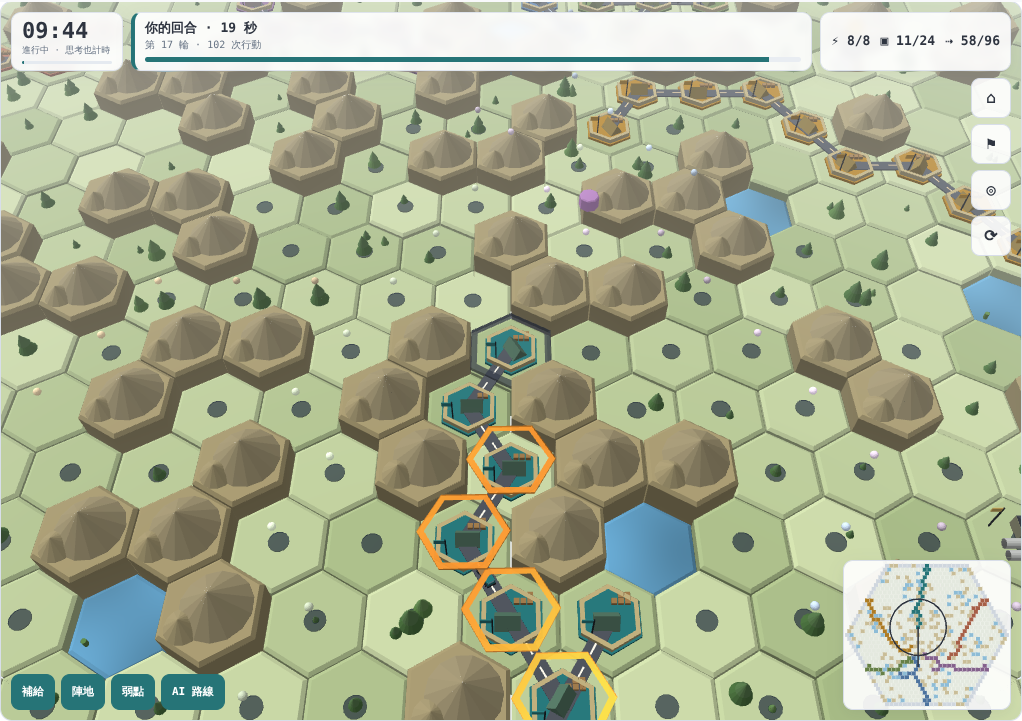
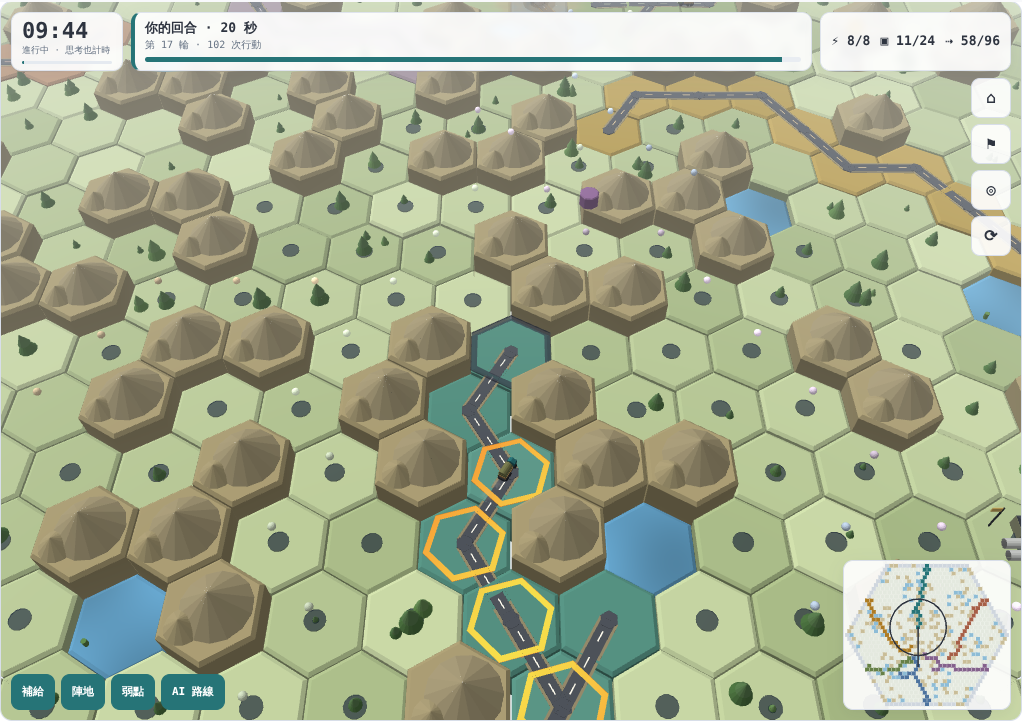
Record AutoHex-3D playtest for the particle battlefield
Full suite 465/465; Chromium playtests and a full ten-minute campaign
replay identically in the Node engine.

Claude-Session: https://claude.ai/code/session_01Uhr3zAC9qvkZDkg1xvcqao

diff --git a/docs/autohex-3d-2026-11-02/validation.md b/docs/autohex-3d-2026-11-02/validation.md
@@ -23,22 +23,22 @@ git diff --check
 
 ## 瀏覽器試玩（Chromium 153，SwiftShader WebGL2）
 
-下表為戰場造型更新後重跑的結果。十分鐘戰役由真實時間推進，AI 步速與計時的交錯不同，因此與前一輪手數不同；兩輪都要求重放一致。
+下表為第二版戰場造型（地塊變色、粒子爆炸、轟炸機與卡車）後重跑的結果。十分鐘戰役由真實時間推進，AI 步速與計時的交錯不同，因此與前一輪手數不同；兩輪都要求重放一致。
 
 詳見 [browser-report.json](browser-report.json)。每一例都把頁面的完整行動紀錄（人類、AI、佇列、逾時）在 Node 的 AutoHex 引擎重放，棋盤、存糧與分數完全一致。
 
 | 情境 | 結果 |
 | --- | --- |
 | 桌機 1440 親自指揮 | 以真實滑鼠點 3D 畫面下令 30 次：鋪子 23、拆除敵方補給弱點 4、為己方弱點架盾 3；AI 行動中預約 2 個指令並自動執行；指揮時限逾時自動休整 1 次；暫停凍結計時；195 手，重放一致，無錯誤、無橫向溢出 |
-| 桌機 1280 觀戰 | 六 AI 306 手，重放一致 |
+| 桌機 1280 觀戰 | 六 AI 303 手，重放一致 |
 | 手機 390／320 | 觸控點格下令各 4 次，重放一致，無橫向溢出 |
-| 完整十分鐘戰役（觀戰） | 1,835 手至結算畫面：C 紫藤 96、B 珊瑚 85、D 藍灰 80、E 草綠 75、A 青綠 70、F 琥珀 38。攻占 251、擊毀 129、斷補撤退 549、接通對岸 6、用牌 81、炮擊 114、空投 6、轟炸 5、重洗 1。重放一致 |
+| 完整十分鐘戰役（觀戰） | 1,823 手至結算畫面：C 紫藤 96、B 珊瑚 85、D 藍灰 80、E 草綠 74、A 青綠 70、F 琥珀 38。攻占 251、擊毀 128、斷補撤退 544、接通對岸 6、用牌 80、炮擊 113、空投 6、轟炸 5、重洗 1。重放一致 |
 
 畫面：[開局](desktop-ready.png) · [中局（陣地＋AI 路線）](desktop-midgame.png) · [指揮列](desktop-command.png) · [觀戰總覽](spectator-overview.png) · [十分鐘結算](full-campaign-result.png) · [手機 390](phone-390.png) · [手機 320](phone-320.png)
 
 ## 戰場造型的檢查
 
-以暫停凍結動畫後逐張檢視：營地、城堡、砲塔瞄準、柏油路與卡車、桁架橋、地道口、機場起降、砲彈飛行與命中爆炸（火球、衝擊波、碎片、煙柱、焦痕）。截圖見 [README](README.md#戰場造型2026-11-02-更新)。這是目視檢查，不是自動化的影像比對。
+以暫停凍結動畫後逐張檢視：地塊變色與邊緣狀態、城堡、砲塔瞄準與後座、柏油路與軍用卡車、桁架橋、地道口、機場起降、砲彈飛行與煙跡、命中爆炸（閃光、火球、煙柱、土塊、塵環、焦痕）、轟炸機進場投彈。截圖見 [README](README.md#戰場造型2026-11-02-更新)。這是目視檢查，不是自動化的影像比對。
 
 ## 限制
 
